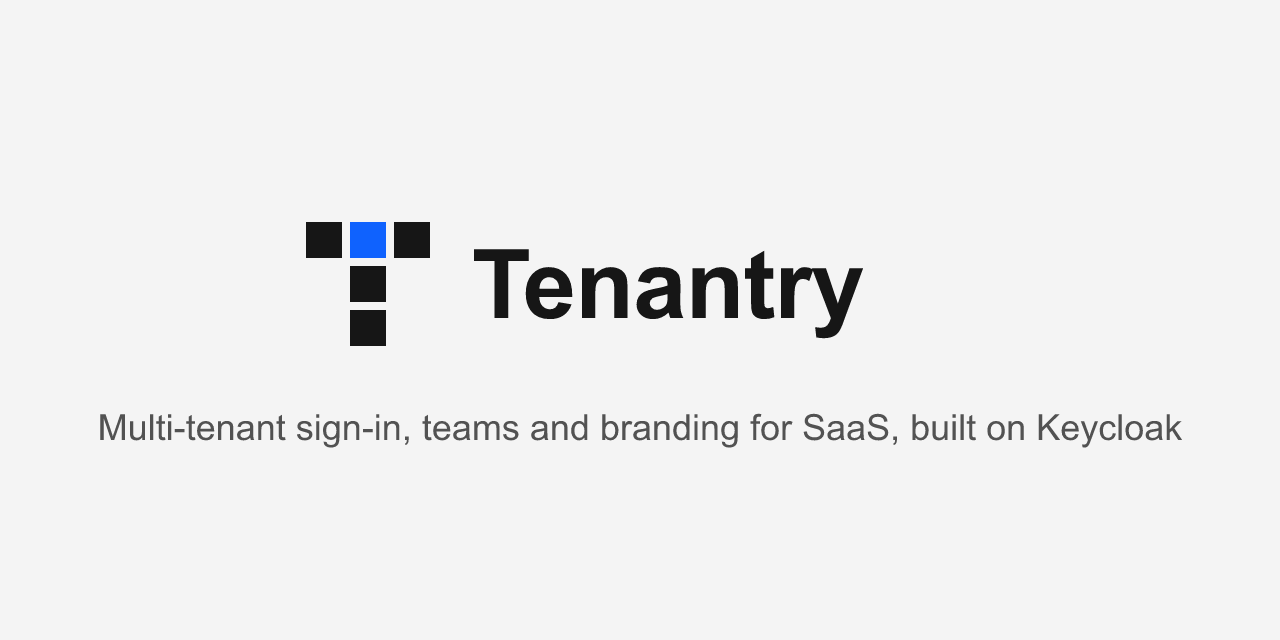
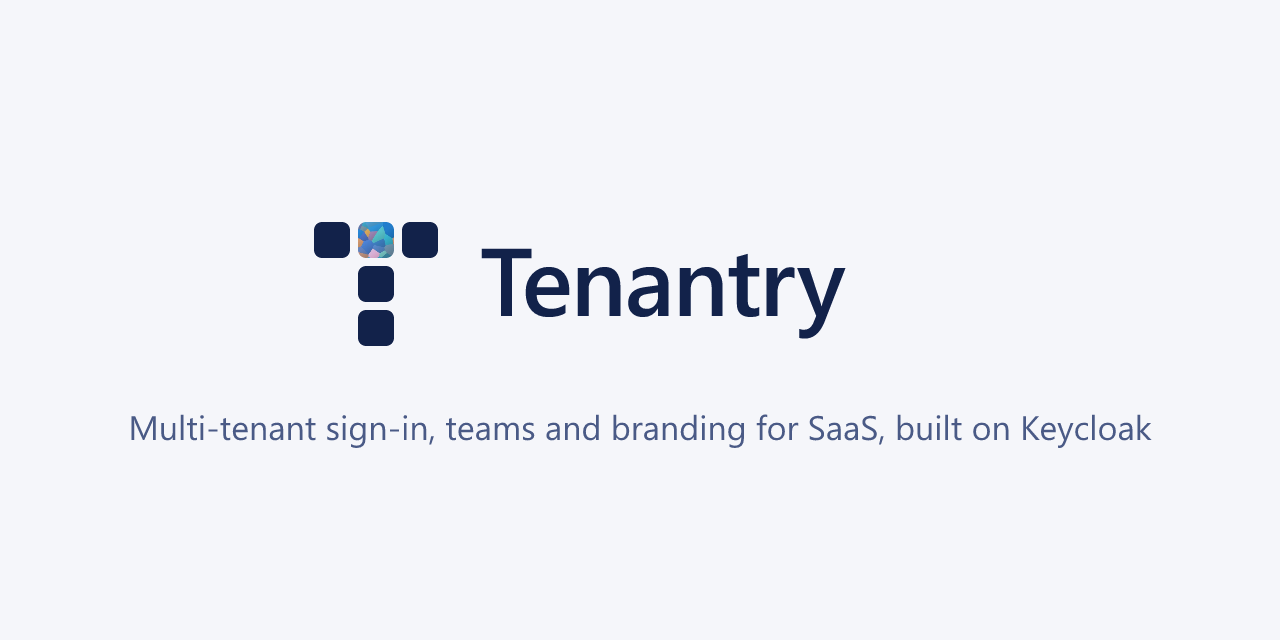
feat(brand): the Tenantry mark in Pengopal opal and navy
Rounded tiles in navy ink, with the tile where the bar meets the stem cut
from the opal mosaic. pnpm brand:icons writes the SVGs and renders the PNGs.

Changed region(s): [[0.375, 0.375, 0.6875, 0.5312], [0.0625, 0.625, 0.9375, 0.7188], [0.2188, 0.3438, 0.3438, 0.5625]]

diff --git a/docs/brand.md b/docs/brand.md
@@ -4,27 +4,27 @@
 
 ## The mark
 
-Five square tiles make a **T**. Each tile stands on its own, with clear space around it: separate workspaces, one platform. The tile where the bar meets the stem is blue, for the platform that holds the others together.
+Five rounded tiles make a **T**. Each tile stands on its own, with clear space around it: separate workspaces, one platform. The tile where the bar meets the stem is opal, for the platform that holds the others together. Tenantry is a Pengopal product, so the mark wears the Pengopal brand: navy ink and the opal mosaic, as PengOPA does.
 
 ## Colours
 
-| Name     | Hex       | Use                                                  |
-| -------- | --------- | ---------------------------------------------------- |
-| Blue 60  | `#0f62fe` | the one blue tile; also the default workspace colour |
-| Gray 100 | `#161616` | the other tiles and the word on light backgrounds    |
-| Gray 10  | `#f4f4f4` | the other tiles and the word on dark backgrounds     |
+| Name     | Value           | Use                                                         |
+| -------- | --------------- | ----------------------------------------------------------- |
+| Opal     | `opal-tile.png` | the one opal tile: a square cut from Pengopal's opal mosaic |
+| Navy ink | `#12224a`       | the other tiles and the word on light backgrounds           |
+| Pale     | `#eef2ff`       | the other tiles and the word on dark backgrounds            |
 
-These are IBM Carbon's own colours, so the brand sits with the Carbon UI without new tokens.
+On light backgrounds the opal tile is deepened slightly, as on pengopal.com, so it holds against white.
 
 ## Type
 
-The word "Tenantry" is set in IBM Plex Sans, semibold (600). Where Plex isn't installed, the SVG falls back to Helvetica Neue, then Arial.
+The word "Tenantry" is set in Geist, semibold (600), as PengOPA's is. Where Geist isn't installed, the SVG falls back to Inter, then Segoe UI and the system face; the PNGs use Segoe UI.
 
 ## Use
 
 - **Clear space:** keep at least a quarter of the mark's width empty around the mark or the logo.
 - **Minimum size:** 16 px for the mark, 96 px wide for the logo.
-- **Don't** stretch it, recolour the tiles, change which tile is blue, add shadows or outlines, or set the word in another typeface.
+- **Don't** stretch it, recolour the tiles, change which tile is opal, add shadows or outlines, or set the word in another typeface.
 
 ## Files
 
@@ -36,7 +36,8 @@ In `packages/ui/assets/brand/`:
 | `tenantry-logo.svg`, `tenantry-logo-dark.svg`            | mark and word, for light and dark backgrounds                            |
 | `tenantry-logo-card.svg`                                 | the dark logo on its own black card; the README's, readable in any theme |
 | `favicon.svg`                                            | the mark, following the browser's light or dark scheme                   |
-| `favicon-32.png`, `apple-touch-icon.png`, `icon-512.png` | rendered icons                                                           |
+| `favicon-32.png`, `apple-touch-icon.png`, `icon-512.png` | rendered icons; the app icons put the mark on a navy tile                |
+| `opal-tile.png`                                          | the square of opal mosaic the SVGs embed                                 |
 | `social-preview.png`                                     | 1280×640, for the GitHub repository's social preview                     |
 
-The SVGs are written by hand. After changing one, run `pnpm brand:icons` to render the PNGs again, and commit them.
+`pnpm brand:icons` (`scripts/brand-icons.mjs`) writes the SVGs, with `opal-tile.png` embedded, and renders the PNGs. Change the script, not the SVGs, then run it and commit what it writes.

diff --git a/CHANGELOG.md b/CHANGELOG.md
@@ -4,6 +4,10 @@ All notable changes to Tenantry. The format follows [Keep a Changelog](https://k
 
 ## [Unreleased]
 
+### Changed
+
+- Tenantry's mark wears the Pengopal brand: rounded tiles in navy ink, and the tile where the bar meets the stem cut from the opal mosaic in place of Carbon blue. New logos, favicon, app icons and social preview; `pnpm brand:icons` now writes the SVGs too.
+
 ## [0.6.2] - 2026-11-10
 
 ### Fixed
